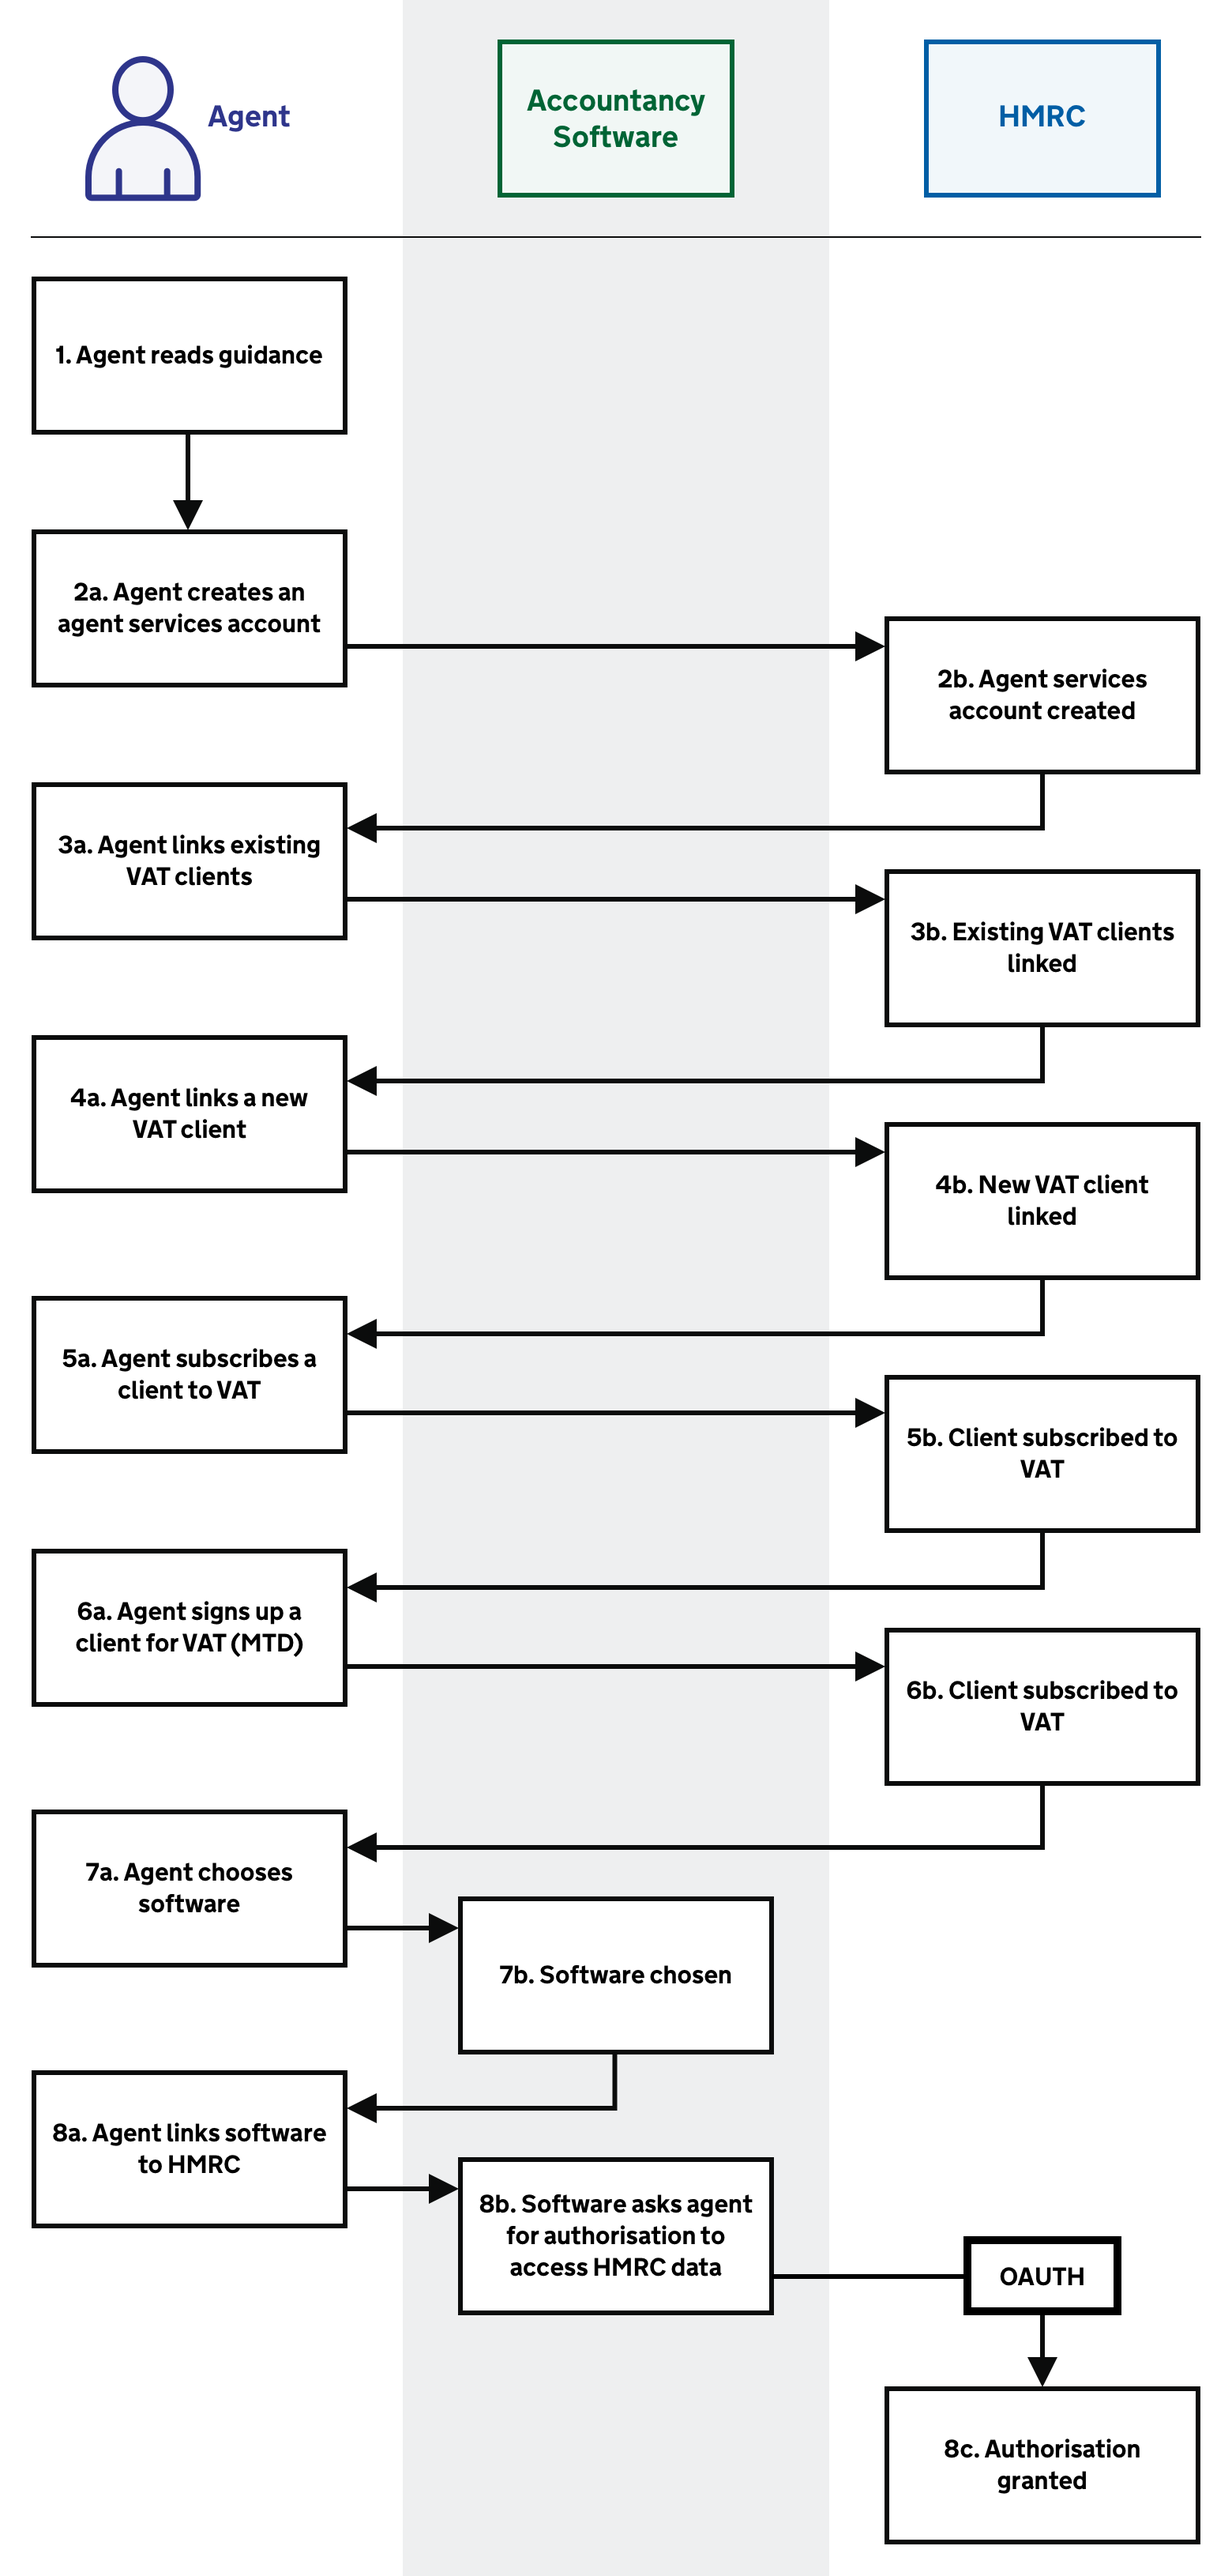
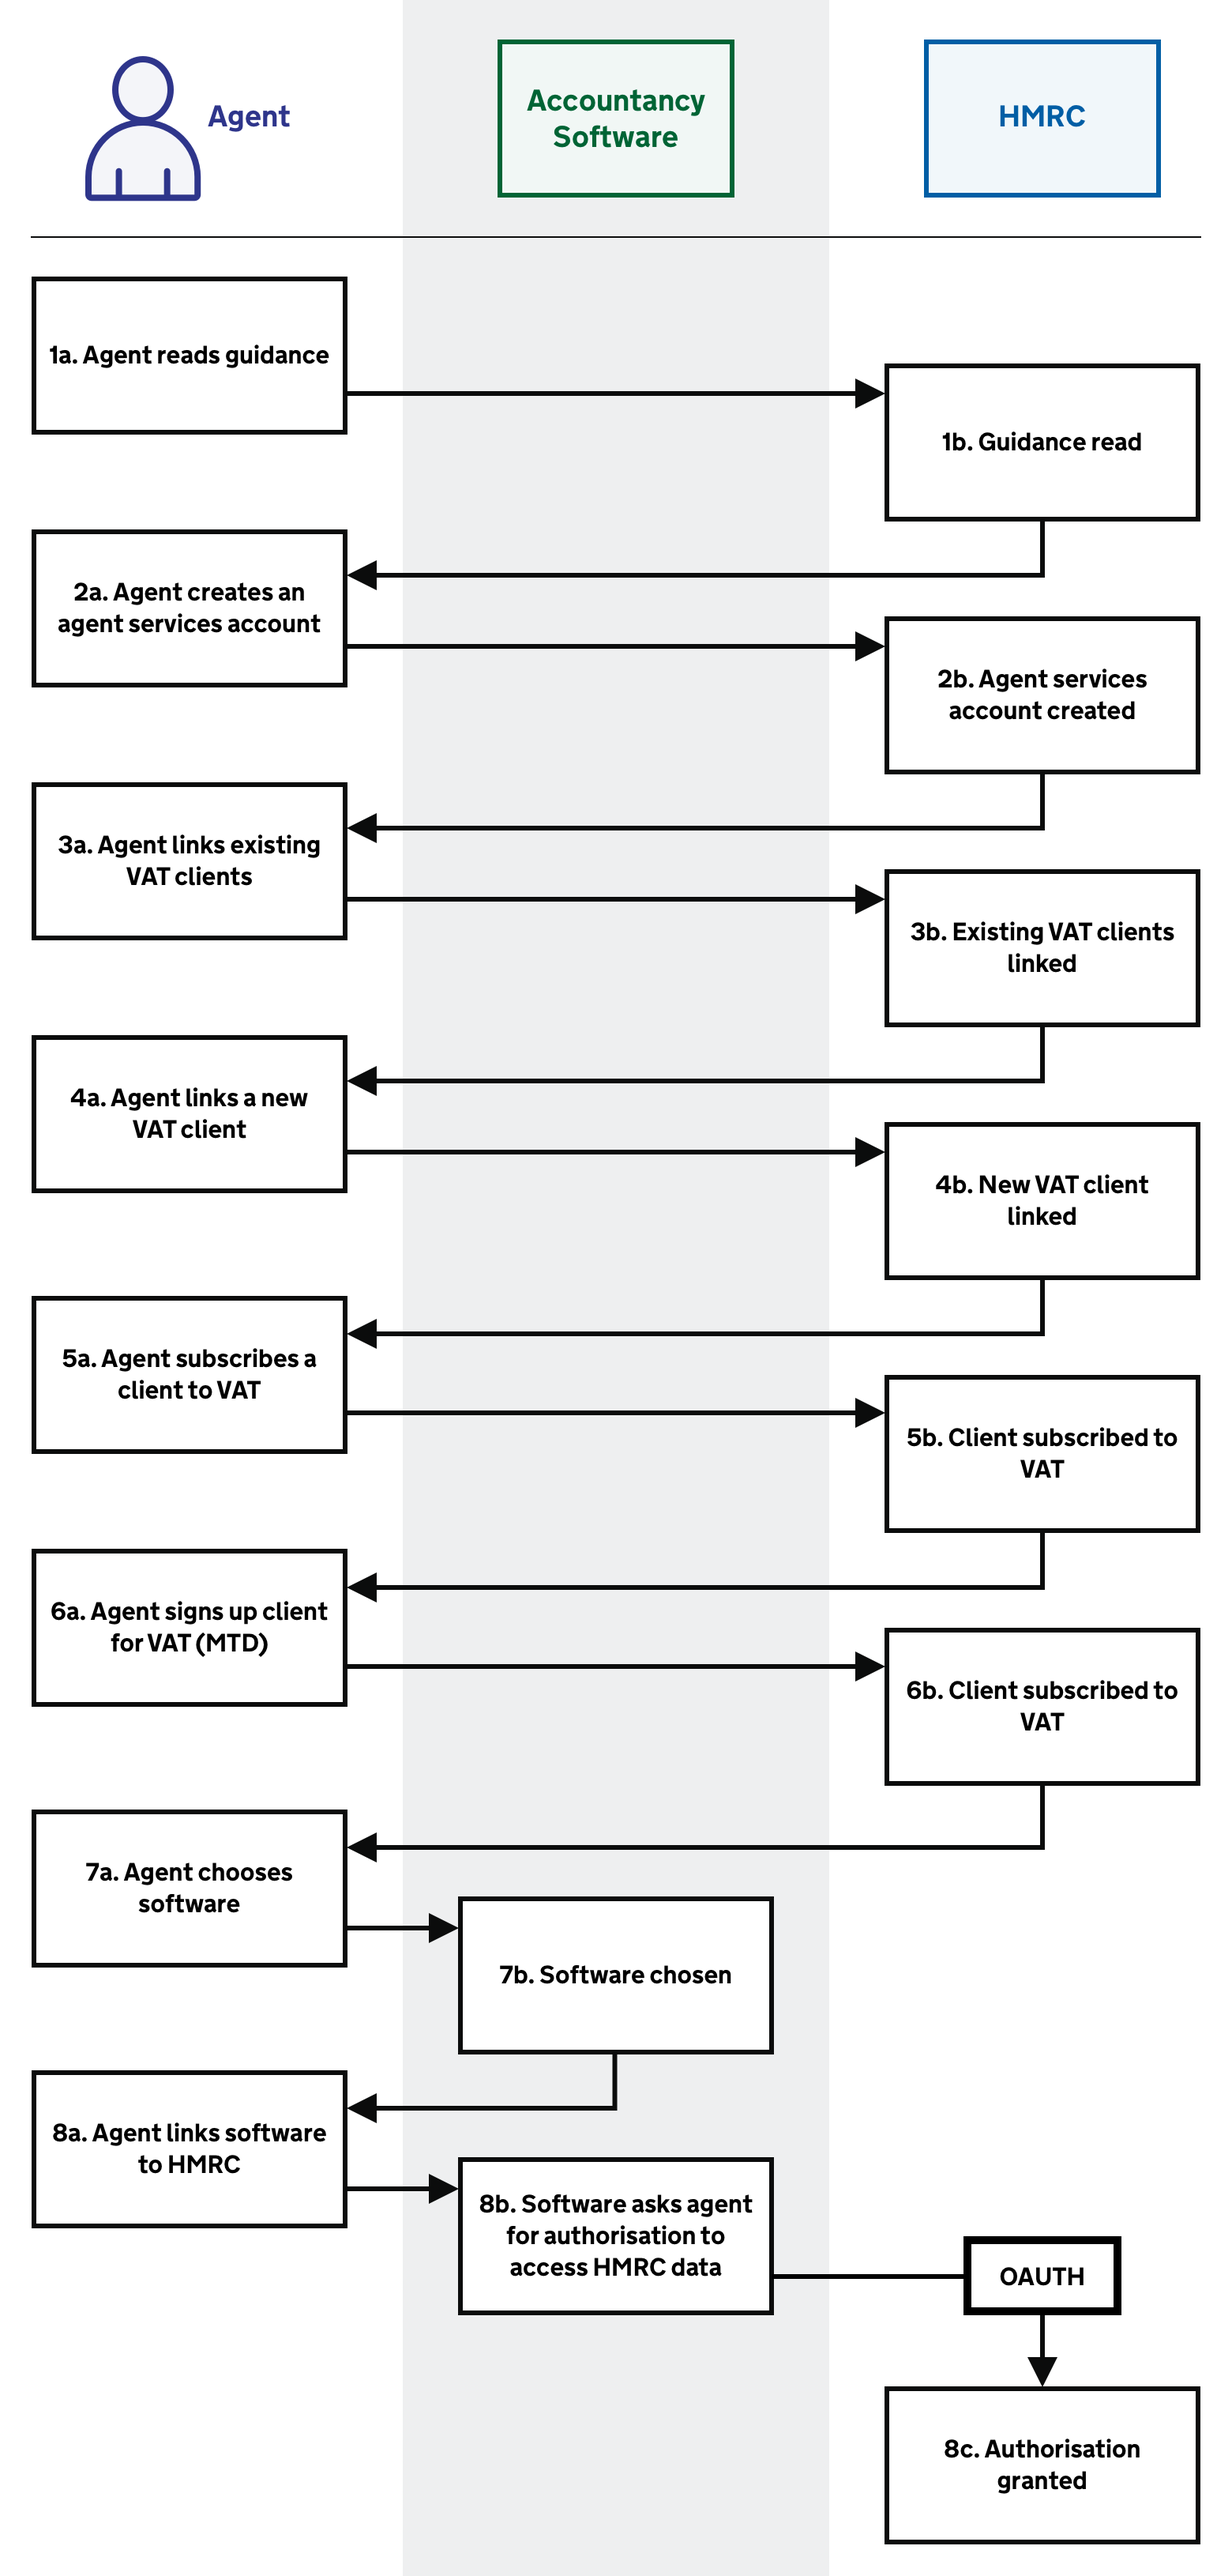
updated agent start up diagram and index page title

diff --git a/source/documentation/index.md b/source/documentation/index.md
@@ -1,4 +1,5 @@
 ---
+title: VAT (MTD) End-to-End Service Guide
 weight: 1
 ---
 
